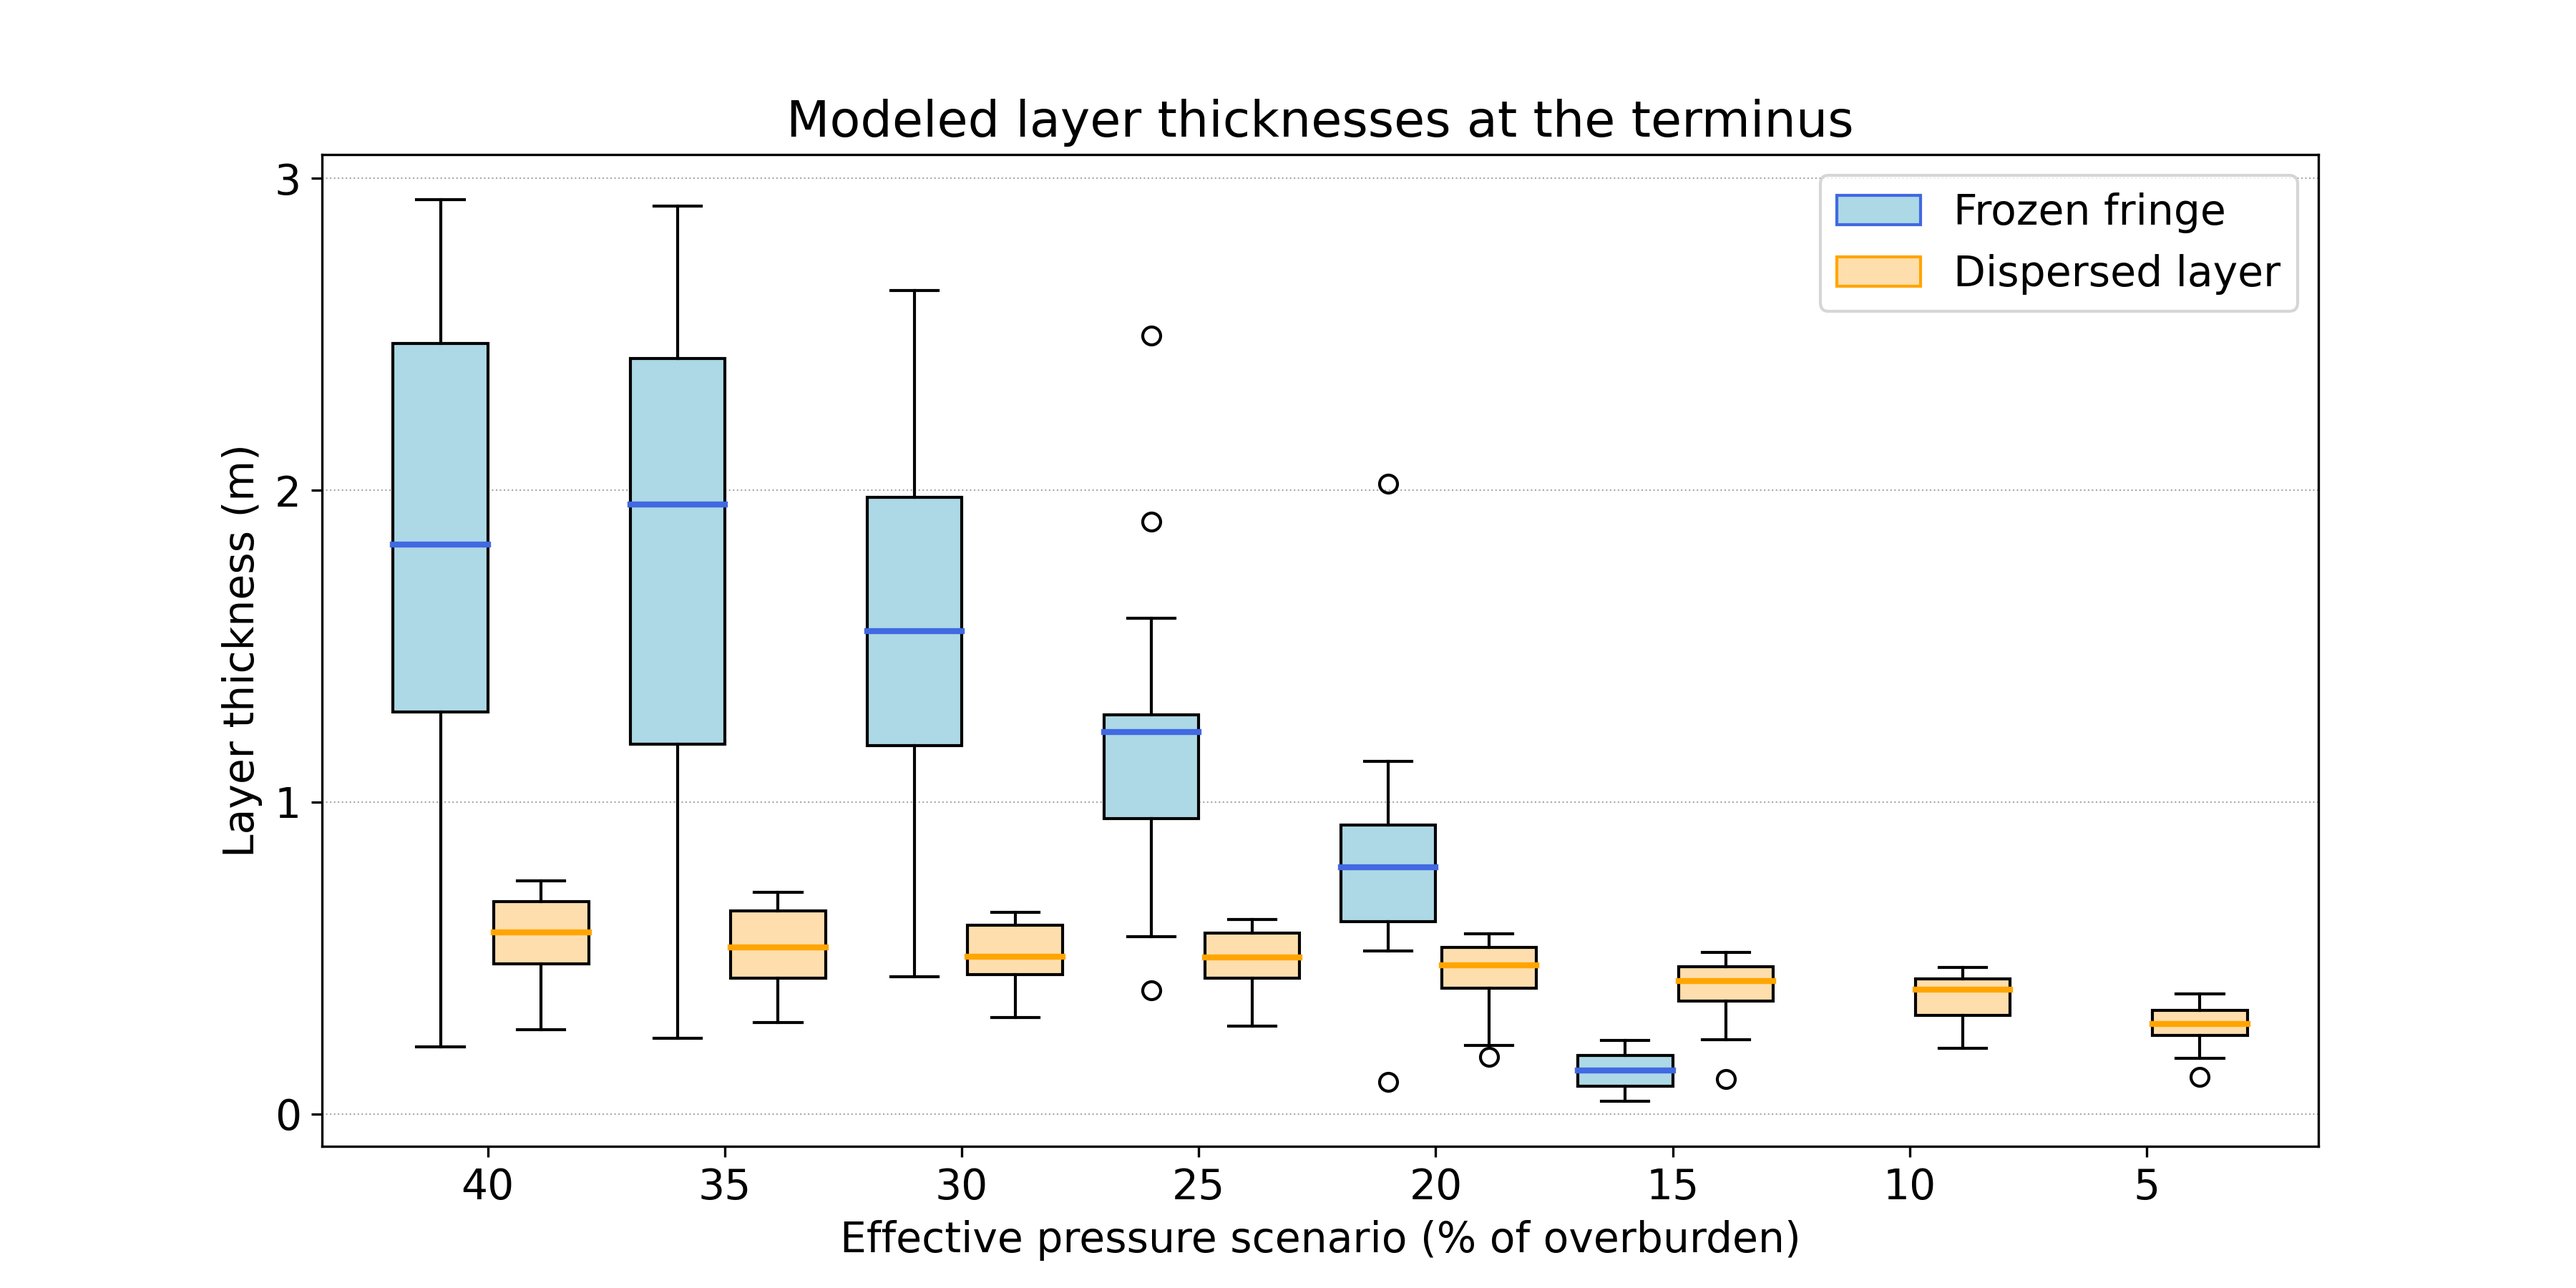
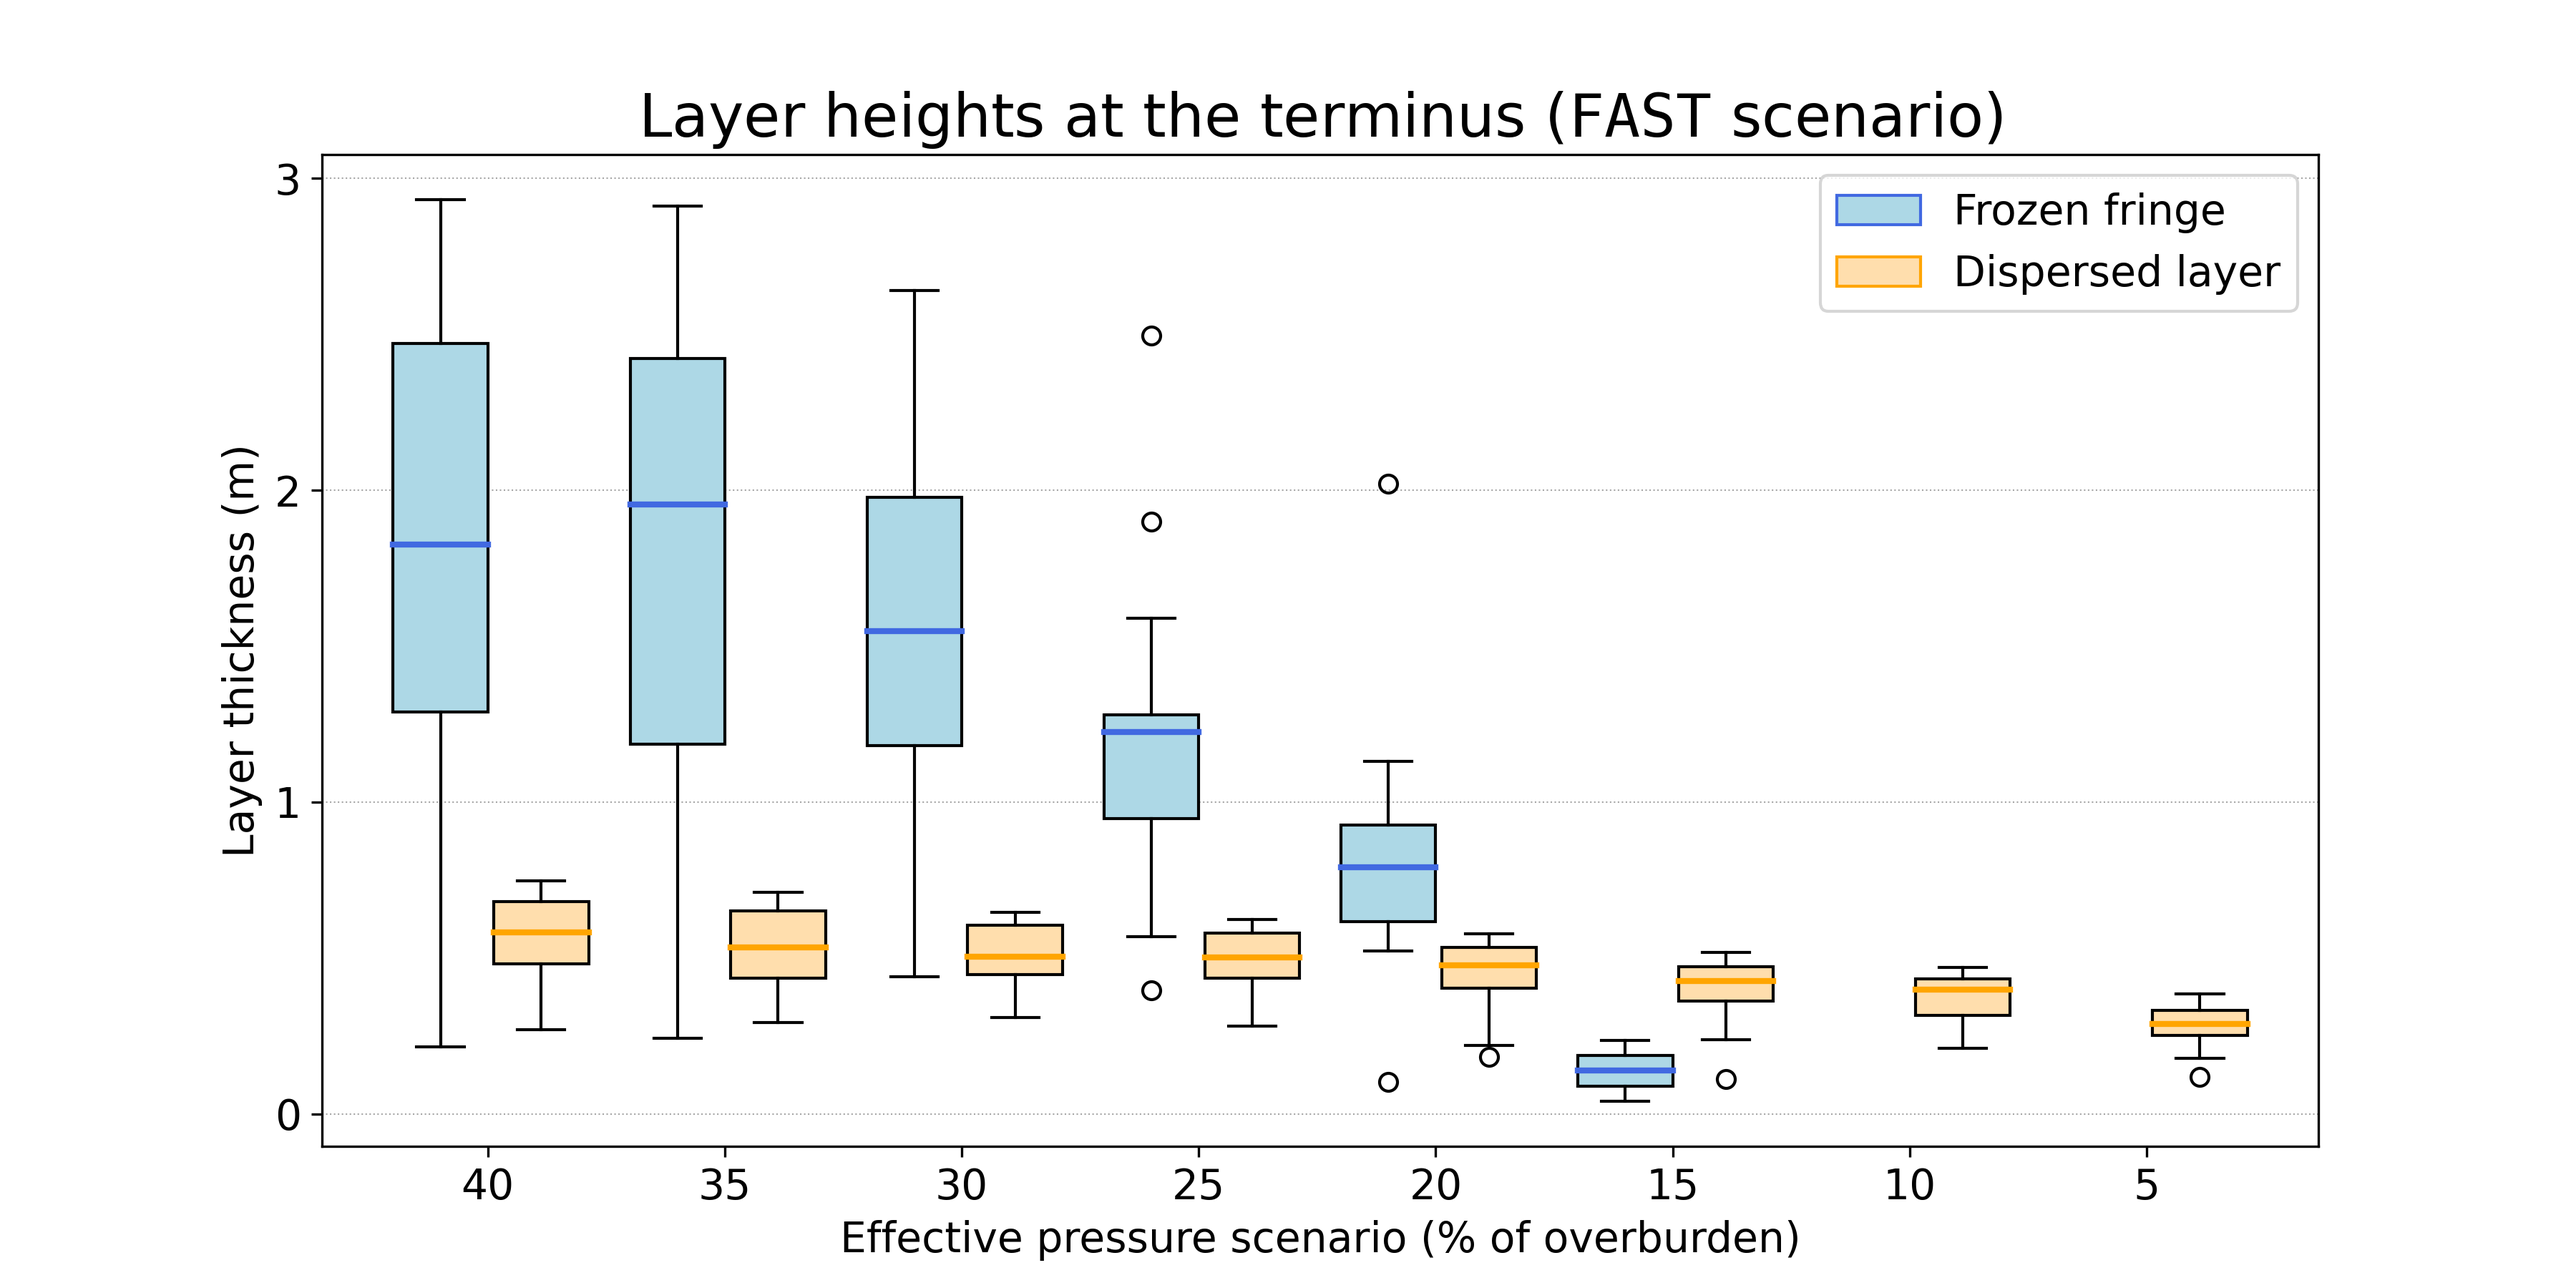
Add final advection figures

Changed region(s): [[0.2489, 0.0622, 0.7778, 0.1244]]

diff --git a/experiments/static-effective-pressure/plot_flux_histogram.py b/experiments/static-effective-pressure/plot_flux_histogram.py
@@ -85,140 +85,140 @@ Nlabels = [str(100 - i) for i in Ns]
 # plt.savefig('./figures/dispersed_fluxes.png', dpi = 300)
 
 # All fluxes
-fastmark = 'o'
-slowmark = 'x'
-fringecol = 'C4'
-dispcol = 'C5'
+# fastmark = 'o'
+# slowmark = 'x'
+# fringecol = 'C4'
+# dispcol = 'C5'
 
-fig, ax = plt.subplots(figsize = (12 , 6))
-ax2 = ax.twinx()
+# fig, ax = plt.subplots(figsize = (12 , 6))
+# ax2 = ax.twinx()
 
-ax.scatter(Nlabels, np.sum(fluxes['slow']['fringe'], axis = 1), label = 'SLOW, Frozen fringe', color = fringecol, marker = slowmark)
-ax.plot(Nlabels, np.sum(fluxes['slow']['fringe'], axis = 1), linestyle = ':', color = fringecol)
+# ax.scatter(Nlabels, np.sum(fluxes['slow']['fringe'], axis = 1), label = 'SLOW, Frozen fringe', color = fringecol, marker = slowmark)
+# ax.plot(Nlabels, np.sum(fluxes['slow']['fringe'], axis = 1), linestyle = ':', color = fringecol)
 
-ax.scatter(Nlabels, np.sum(fluxes['fast']['fringe'], axis = 1), label = 'FAST, Frozen fringe', color = fringecol, marker = fastmark)
-ax.plot(Nlabels, np.sum(fluxes['fast']['fringe'], axis = 1), linestyle = ':', color = fringecol)
+# ax.scatter(Nlabels, np.sum(fluxes['fast']['fringe'], axis = 1), label = 'FAST, Frozen fringe', color = fringecol, marker = fastmark)
+# ax.plot(Nlabels, np.sum(fluxes['fast']['fringe'], axis = 1), linestyle = ':', color = fringecol)
 
-ax2.scatter(Nlabels, np.sum(fluxes['slow']['dispersed'], axis = 1), label = 'SLOW, Dispersed layer', color = dispcol, marker = slowmark)
-ax2.plot(Nlabels, np.sum(fluxes['slow']['dispersed'], axis = 1), linestyle = ':', color = dispcol)
+# ax2.scatter(Nlabels, np.sum(fluxes['slow']['dispersed'], axis = 1), label = 'SLOW, Dispersed layer', color = dispcol, marker = slowmark)
+# ax2.plot(Nlabels, np.sum(fluxes['slow']['dispersed'], axis = 1), linestyle = ':', color = dispcol)
 
-ax2.scatter(Nlabels, np.sum(fluxes['fast']['dispersed'], axis = 1), label = 'FAST, Dispersed layer', color = dispcol, marker = fastmark)
-ax2.plot(Nlabels, np.sum(fluxes['fast']['dispersed'], axis = 1), linestyle = ':', color = dispcol)
+# ax2.scatter(Nlabels, np.sum(fluxes['fast']['dispersed'], axis = 1), label = 'FAST, Dispersed layer', color = dispcol, marker = fastmark)
+# ax2.plot(Nlabels, np.sum(fluxes['fast']['dispersed'], axis = 1), linestyle = ':', color = dispcol)
 
-ax.set_xlabel('Effective pressure (% of overburden)')
-ax.set_ylabel('Sediment flux (m$^3$ a$^{-1}$)')
-ax.set_ylim([-500, 50000])
+# ax.set_xlabel('Effective pressure (% of overburden)')
+# ax.set_ylabel('Sediment flux (m$^3$ a$^{-1}$)')
+# ax.set_ylim([-500, 50000])
 
-ax2.set_ylabel('Sediment flux (m$^3$ a$^{-1}$)')
-ax2.set_ylim([-35, 3500])
+# ax2.set_ylabel('Sediment flux (m$^3$ a$^{-1}$)')
+# ax2.set_ylim([-35, 3500])
 
-ax.spines['left'].set_color(fringecol)
-ax.yaxis.label.set_color(fringecol)
-ax.tick_params(axis='y', colors=fringecol)
+# ax.spines['left'].set_color(fringecol)
+# ax.yaxis.label.set_color(fringecol)
+# ax.tick_params(axis='y', colors=fringecol)
 
-ax2.spines['right'].set_color(dispcol)
-ax2.yaxis.label.set_color(dispcol)
-ax2.tick_params(axis='y', colors=dispcol)
+# ax2.spines['right'].set_color(dispcol)
+# ax2.yaxis.label.set_color(dispcol)
+# ax2.tick_params(axis='y', colors=dispcol)
 
-plt.title('Sediment flux results', size = 18)
-ax.legend(loc = 'upper left')
-ax2.legend(loc = 'upper right')
-plt.show()
+# plt.title('Sediment flux results', size = 18)
+# ax.legend(loc = 'upper left')
+# ax2.legend(loc = 'upper right')
+# plt.show()
 
 # Layer thickness boxplots
-# fig, ax = plt.subplots(figsize = (12, 6))
+fig, ax = plt.subplots(figsize = (12, 6))
 
-# fplot = ax.boxplot(
-#     boxplots['slow']['fringe'], 
-#     positions = np.arange(len(Ns)), 
-#     widths = 0.4, 
-#     bootstrap = 1000,
-#     patch_artist = True,
-#     boxprops = dict(
-#         facecolor = 'lightblue'
-#     ),
-#     medianprops = dict(
-#         color = 'royalblue',
-#         linewidth = 2
-#     )
-# )
+fplot = ax.boxplot(
+    boxplots['slow']['fringe'], 
+    positions = np.arange(len(Ns)), 
+    widths = 0.4, 
+    bootstrap = 1000,
+    patch_artist = True,
+    boxprops = dict(
+        facecolor = 'lightblue'
+    ),
+    medianprops = dict(
+        color = 'royalblue',
+        linewidth = 2
+    )
+)
 
-# dplot = ax.boxplot(
-#     boxplots['slow']['dispersed'],
-#     positions = np.arange(len(Ns)) + 0.425,
-#     widths = 0.4,
-#     bootstrap = 1000,
-#     patch_artist = True,
-#     boxprops = dict(
-#         facecolor = 'navajowhite'
-#     ),
-#     medianprops = dict(
-#         color = 'orange',
-#         linewidth = 2
-#     )
-# )
+dplot = ax.boxplot(
+    boxplots['slow']['dispersed'],
+    positions = np.arange(len(Ns)) + 0.425,
+    widths = 0.4,
+    bootstrap = 1000,
+    patch_artist = True,
+    boxprops = dict(
+        facecolor = 'navajowhite'
+    ),
+    medianprops = dict(
+        color = 'orange',
+        linewidth = 2
+    )
+)
 
-# ax.yaxis.grid(True, which = 'both', linestyle = ':', linewidth = 0.5, alpha = 0.7, color = 'gray')
-# ax.yaxis.set_major_locator(ticker.MultipleLocator(base=1.0))
+ax.yaxis.grid(True, which = 'both', linestyle = ':', linewidth = 0.5, alpha = 0.7, color = 'gray')
+ax.yaxis.set_major_locator(ticker.MultipleLocator(base=1.0))
 
-# ax.set_xticks(np.arange(len(Ns)) + 0.2)
-# ax.set_xticklabels([str(100 - N) for N in Ns])
+ax.set_xticks(np.arange(len(Ns)) + 0.2)
+ax.set_xticklabels([str(100 - N) for N in Ns])
 
-# ax.set_xlabel('Effective pressure scenario (% of overburden)')
-# ax.set_ylabel('Layer thickness (m)')
-# plt.title('Modeled layer thicknesses at the terminus')
+ax.set_xlabel('Effective pressure scenario (% of overburden)')
+ax.set_ylabel('Layer thickness (m)')
+plt.title('Layer heights at the terminus ($\mathtt{SLOW}$ scenario)', size = 20)
 
-# legend_elements = [plt.Rectangle((0, 0), 1, 1, facecolor='lightblue', edgecolor='royalblue', label='Frozen fringe'),
-#                    plt.Rectangle((0, 0), 1, 1, facecolor='navajowhite', edgecolor='orange', label='Dispersed layer')]
-# ax.legend(handles=legend_elements, loc='upper right')
+legend_elements = [plt.Rectangle((0, 0), 1, 1, facecolor='lightblue', edgecolor='royalblue', label='Frozen fringe'),
+                   plt.Rectangle((0, 0), 1, 1, facecolor='navajowhite', edgecolor='orange', label='Dispersed layer')]
+ax.legend(handles=legend_elements, loc='upper right')
 
-# plt.savefig('./figures/slow_scenario_layers.png', dpi = 300)
+plt.savefig('./figures/slow_scenario_layers.png', dpi = 300)
 
-# # Layer thickness boxplots
-# fig, ax = plt.subplots(figsize = (12, 6))
+# Layer thickness boxplots
+fig, ax = plt.subplots(figsize = (12, 6))
 
-# fplot = ax.boxplot(
-#     boxplots['fast']['fringe'], 
-#     positions = np.arange(len(Ns)), 
-#     widths = 0.4, 
-#     bootstrap = 1000,
-#     patch_artist = True,
-#     boxprops = dict(
-#         facecolor = 'lightblue'
-#     ),
-#     medianprops = dict(
-#         color = 'royalblue',
-#         linewidth = 2
-#     )
-# )
+fplot = ax.boxplot(
+    boxplots['fast']['fringe'], 
+    positions = np.arange(len(Ns)), 
+    widths = 0.4, 
+    bootstrap = 1000,
+    patch_artist = True,
+    boxprops = dict(
+        facecolor = 'lightblue'
+    ),
+    medianprops = dict(
+        color = 'royalblue',
+        linewidth = 2
+    )
+)
 
-# dplot = ax.boxplot(
-#     boxplots['fast']['dispersed'],
-#     positions = np.arange(len(Ns)) + 0.425,
-#     widths = 0.4,
-#     bootstrap = 1000,
-#     patch_artist = True,
-#     boxprops = dict(
-#         facecolor = 'navajowhite'
-#     ),
-#     medianprops = dict(
-#         color = 'orange',
-#         linewidth = 2
-#     )
-# )
+dplot = ax.boxplot(
+    boxplots['fast']['dispersed'],
+    positions = np.arange(len(Ns)) + 0.425,
+    widths = 0.4,
+    bootstrap = 1000,
+    patch_artist = True,
+    boxprops = dict(
+        facecolor = 'navajowhite'
+    ),
+    medianprops = dict(
+        color = 'orange',
+        linewidth = 2
+    )
+)
 
-# ax.yaxis.grid(True, which = 'both', linestyle = ':', linewidth = 0.5, alpha = 0.7, color = 'gray')
-# ax.yaxis.set_major_locator(ticker.MultipleLocator(base=1.0))
+ax.yaxis.grid(True, which = 'both', linestyle = ':', linewidth = 0.5, alpha = 0.7, color = 'gray')
+ax.yaxis.set_major_locator(ticker.MultipleLocator(base=1.0))
 
-# ax.set_xticks(np.arange(len(Ns)) + 0.2)
-# ax.set_xticklabels([str(100 - N) for N in Ns])
+ax.set_xticks(np.arange(len(Ns)) + 0.2)
+ax.set_xticklabels([str(100 - N) for N in Ns])
 
-# ax.set_xlabel('Effective pressure scenario (% of overburden)')
-# ax.set_ylabel('Layer thickness (m)')
-# plt.title('Modeled layer thicknesses at the terminus')
+ax.set_xlabel('Effective pressure scenario (% of overburden)')
+ax.set_ylabel('Layer thickness (m)')
+plt.title('Layer heights at the terminus ($\mathtt{FAST}$ scenario)', size = 20)
 
-# legend_elements = [plt.Rectangle((0, 0), 1, 1, facecolor='lightblue', edgecolor='royalblue', label='Frozen fringe'),
-#                    plt.Rectangle((0, 0), 1, 1, facecolor='navajowhite', edgecolor='orange', label='Dispersed layer')]
-# ax.legend(handles=legend_elements, loc='upper right')
+legend_elements = [plt.Rectangle((0, 0), 1, 1, facecolor='lightblue', edgecolor='royalblue', label='Frozen fringe'),
+                   plt.Rectangle((0, 0), 1, 1, facecolor='navajowhite', edgecolor='orange', label='Dispersed layer')]
+ax.legend(handles=legend_elements, loc='upper right')
 
-# plt.savefig('./figures/fast_scenario_layers.png', dpi = 300)
+plt.savefig('./figures/fast_scenario_layers.png', dpi = 300)
